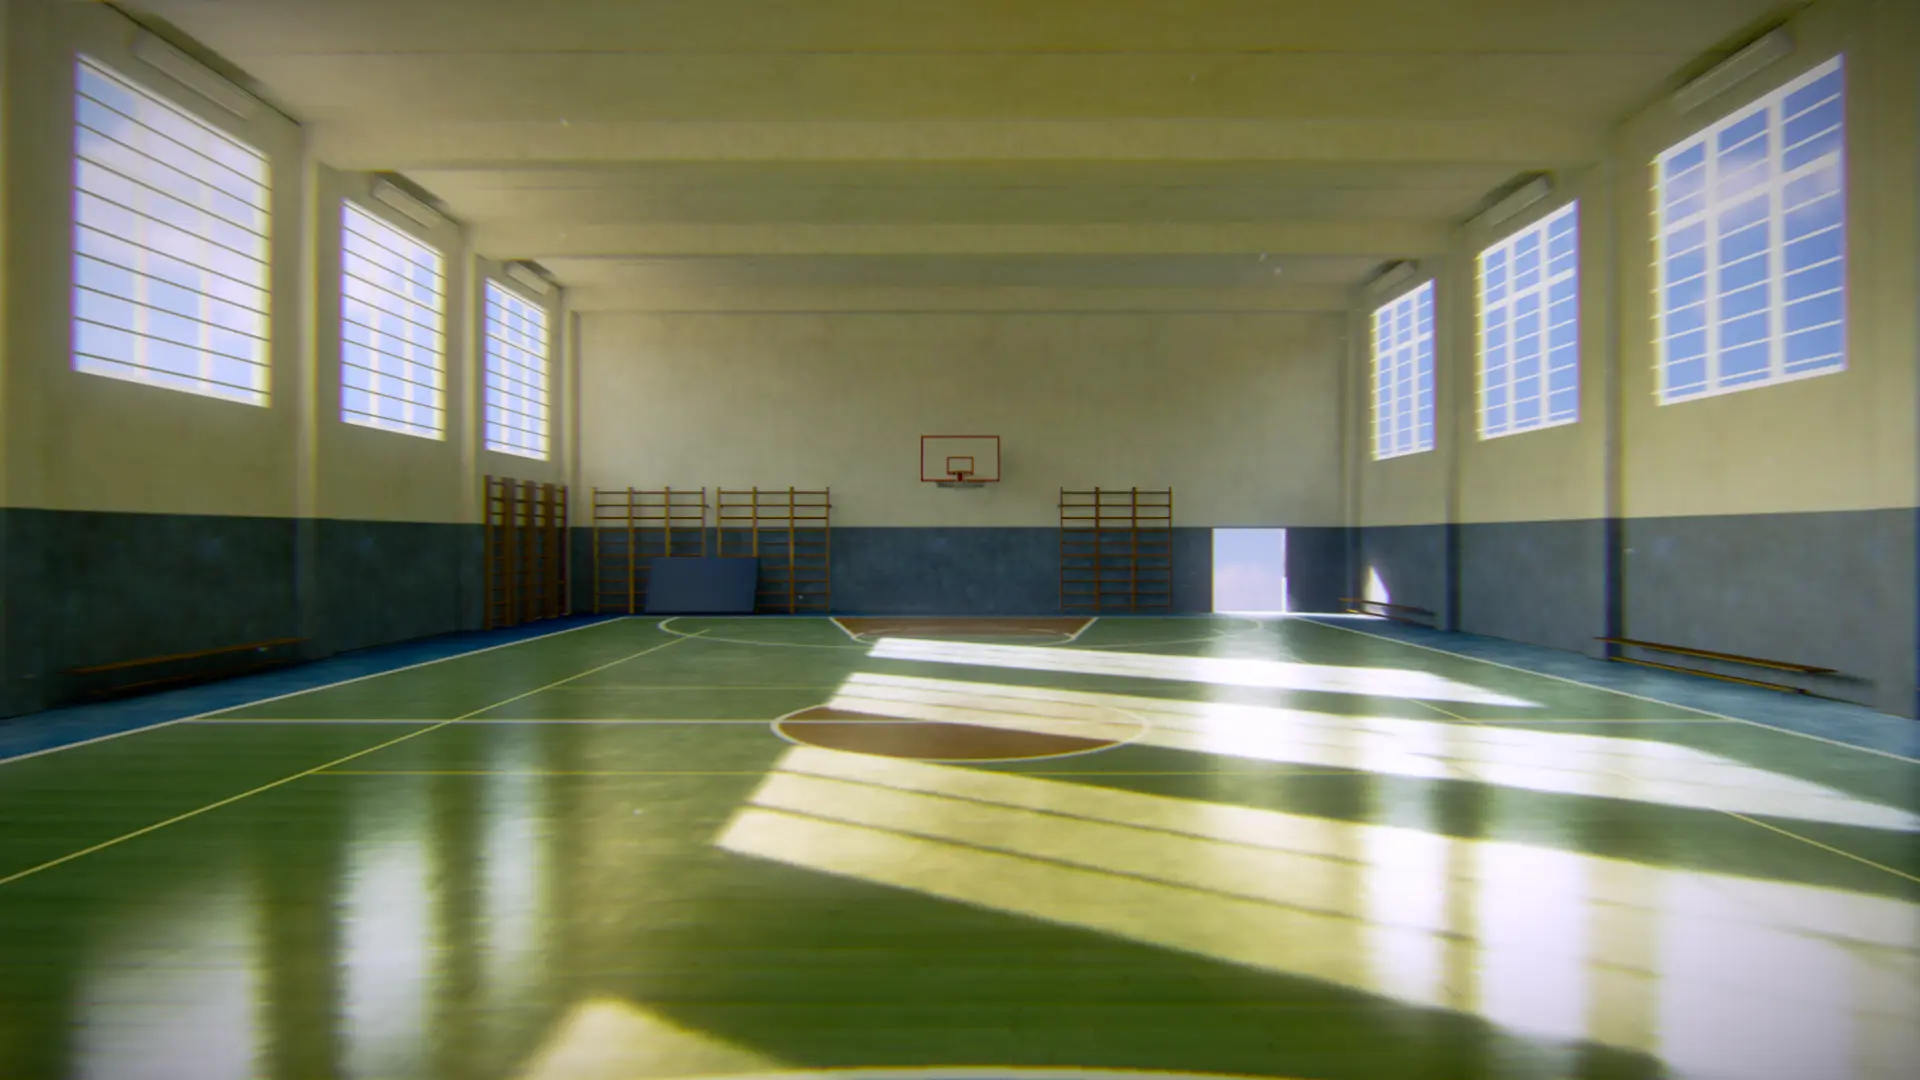
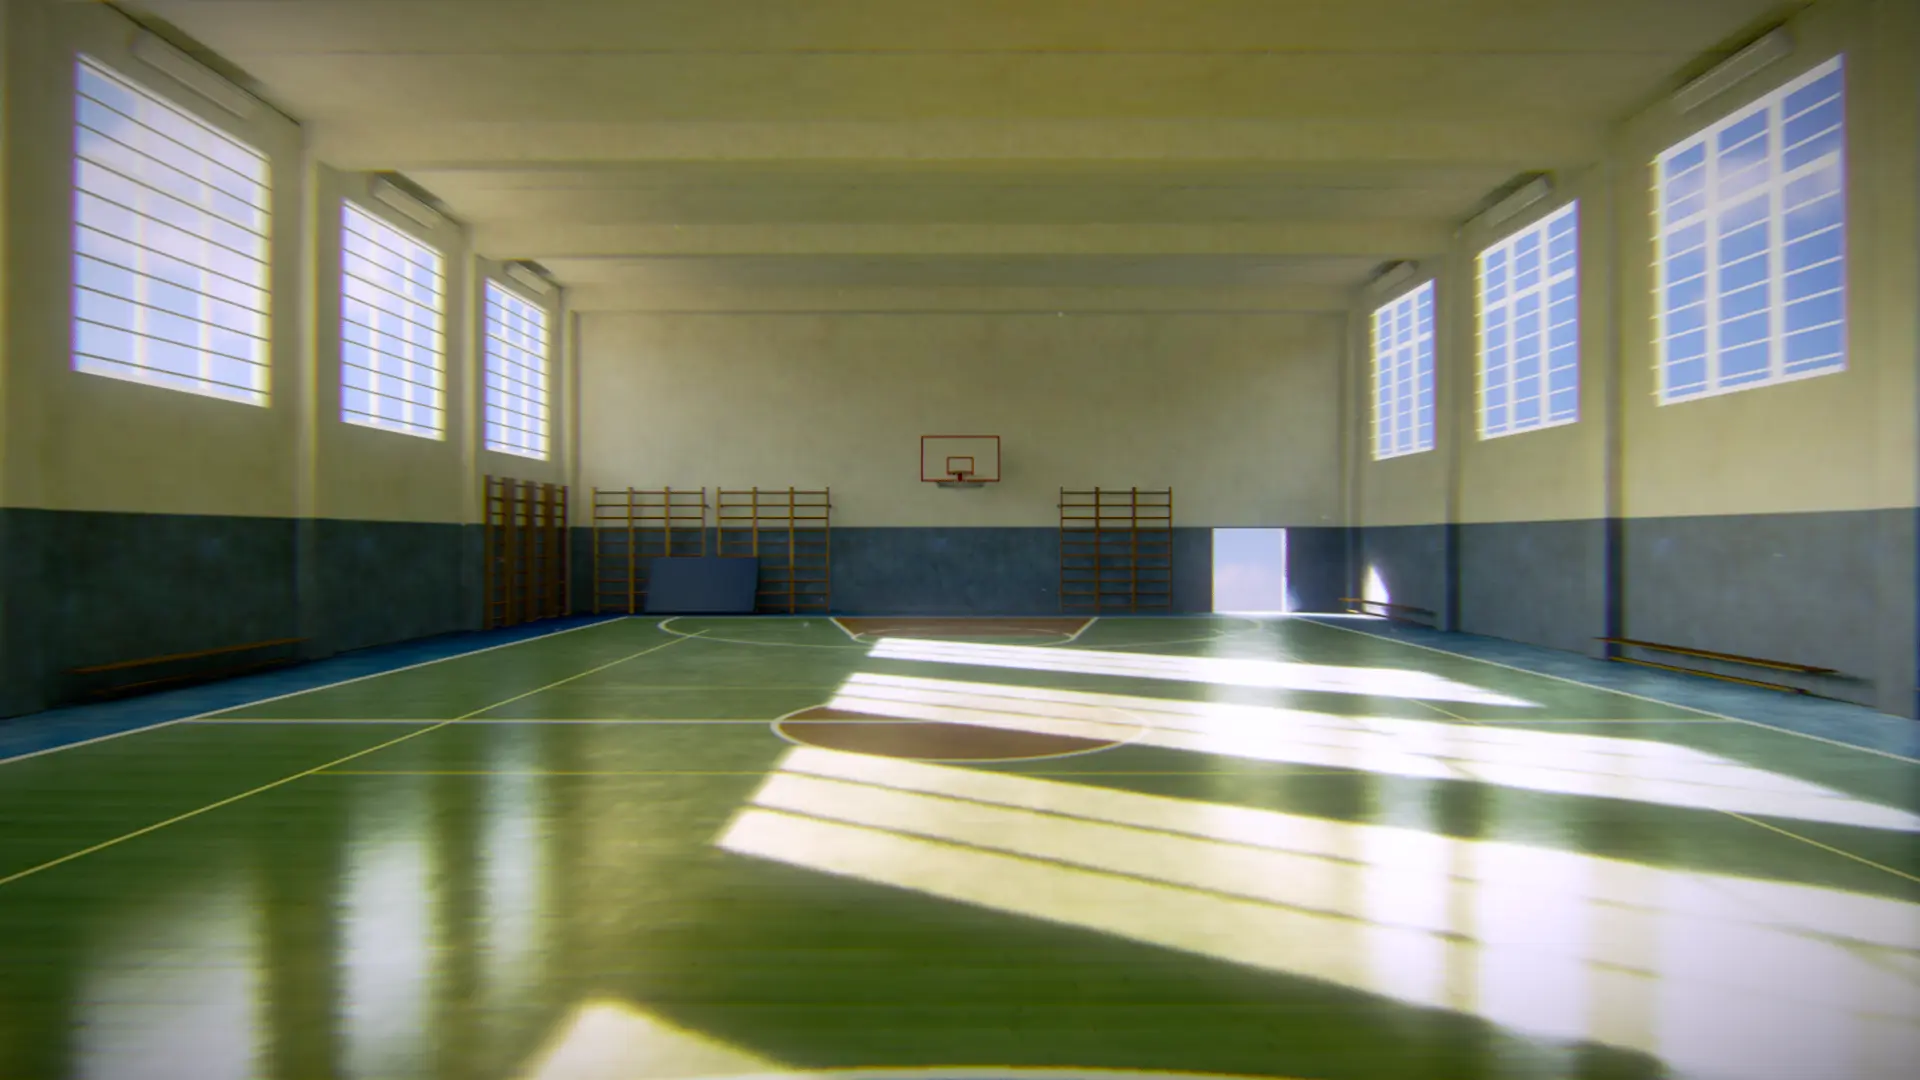
Update pictures

diff --git a/example/scene.js b/example/scene.js
@@ -907,7 +907,7 @@ export const initScene = name => {
 				Object.assign(bloomParams, origBloomParams)
 
 				// lightmaps are hue-corrected with "-7" to be less green and more red
-				loadLightmaps("avif")
+				loadLightmaps("png")
 
 				refreshDisplay()
 			}
